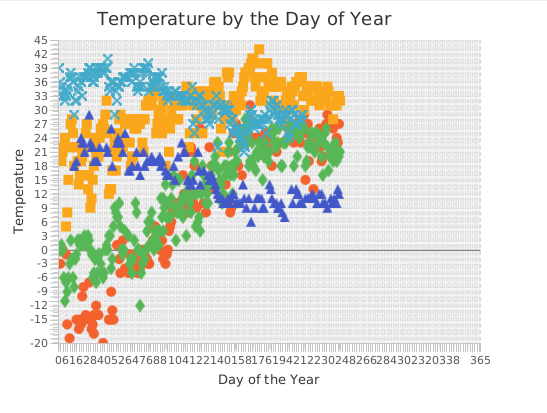
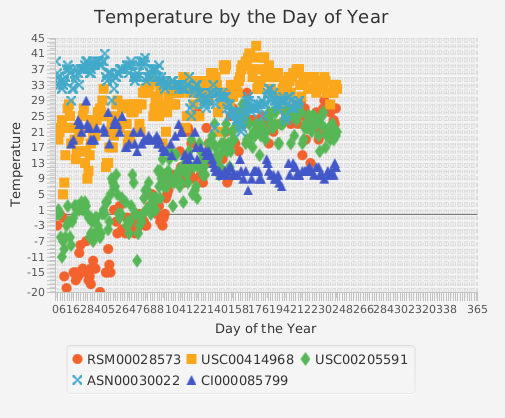
Added Legend and fixed answer to Problem 4

diff --git a/sparkrdd.md b/sparkrdd.md
@@ -16,7 +16,7 @@
 
 3. 29 San Antonio Stations
 
-4. 12 San Antonio Stations reported Data in 2017
+4. 4 San Antonio Stations reported Temperature Data in 2017
 
 5. 122 (tenths of degrees celsius)
 
